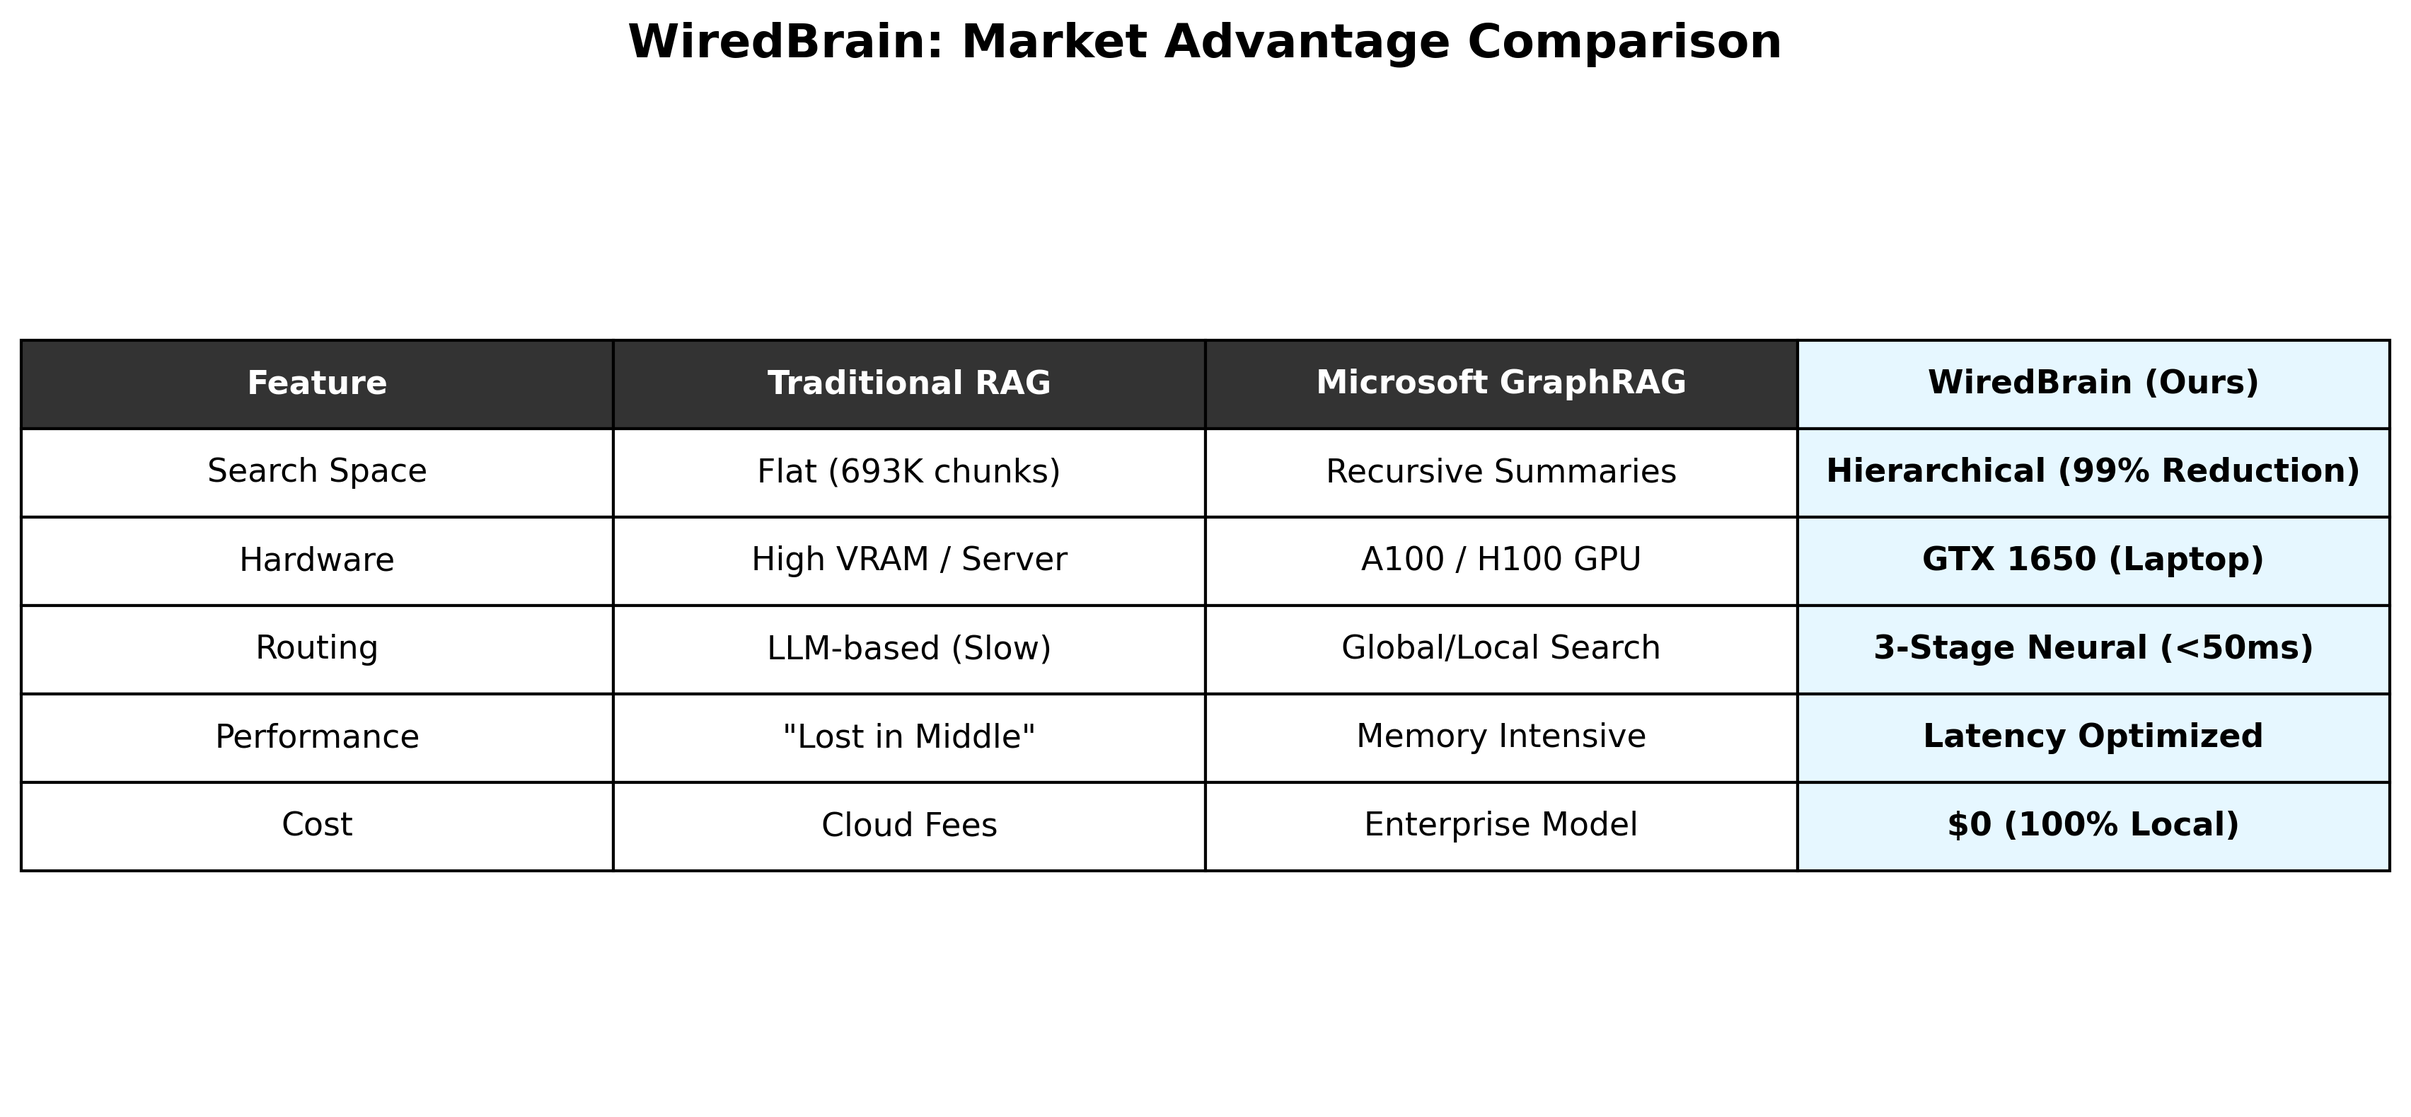
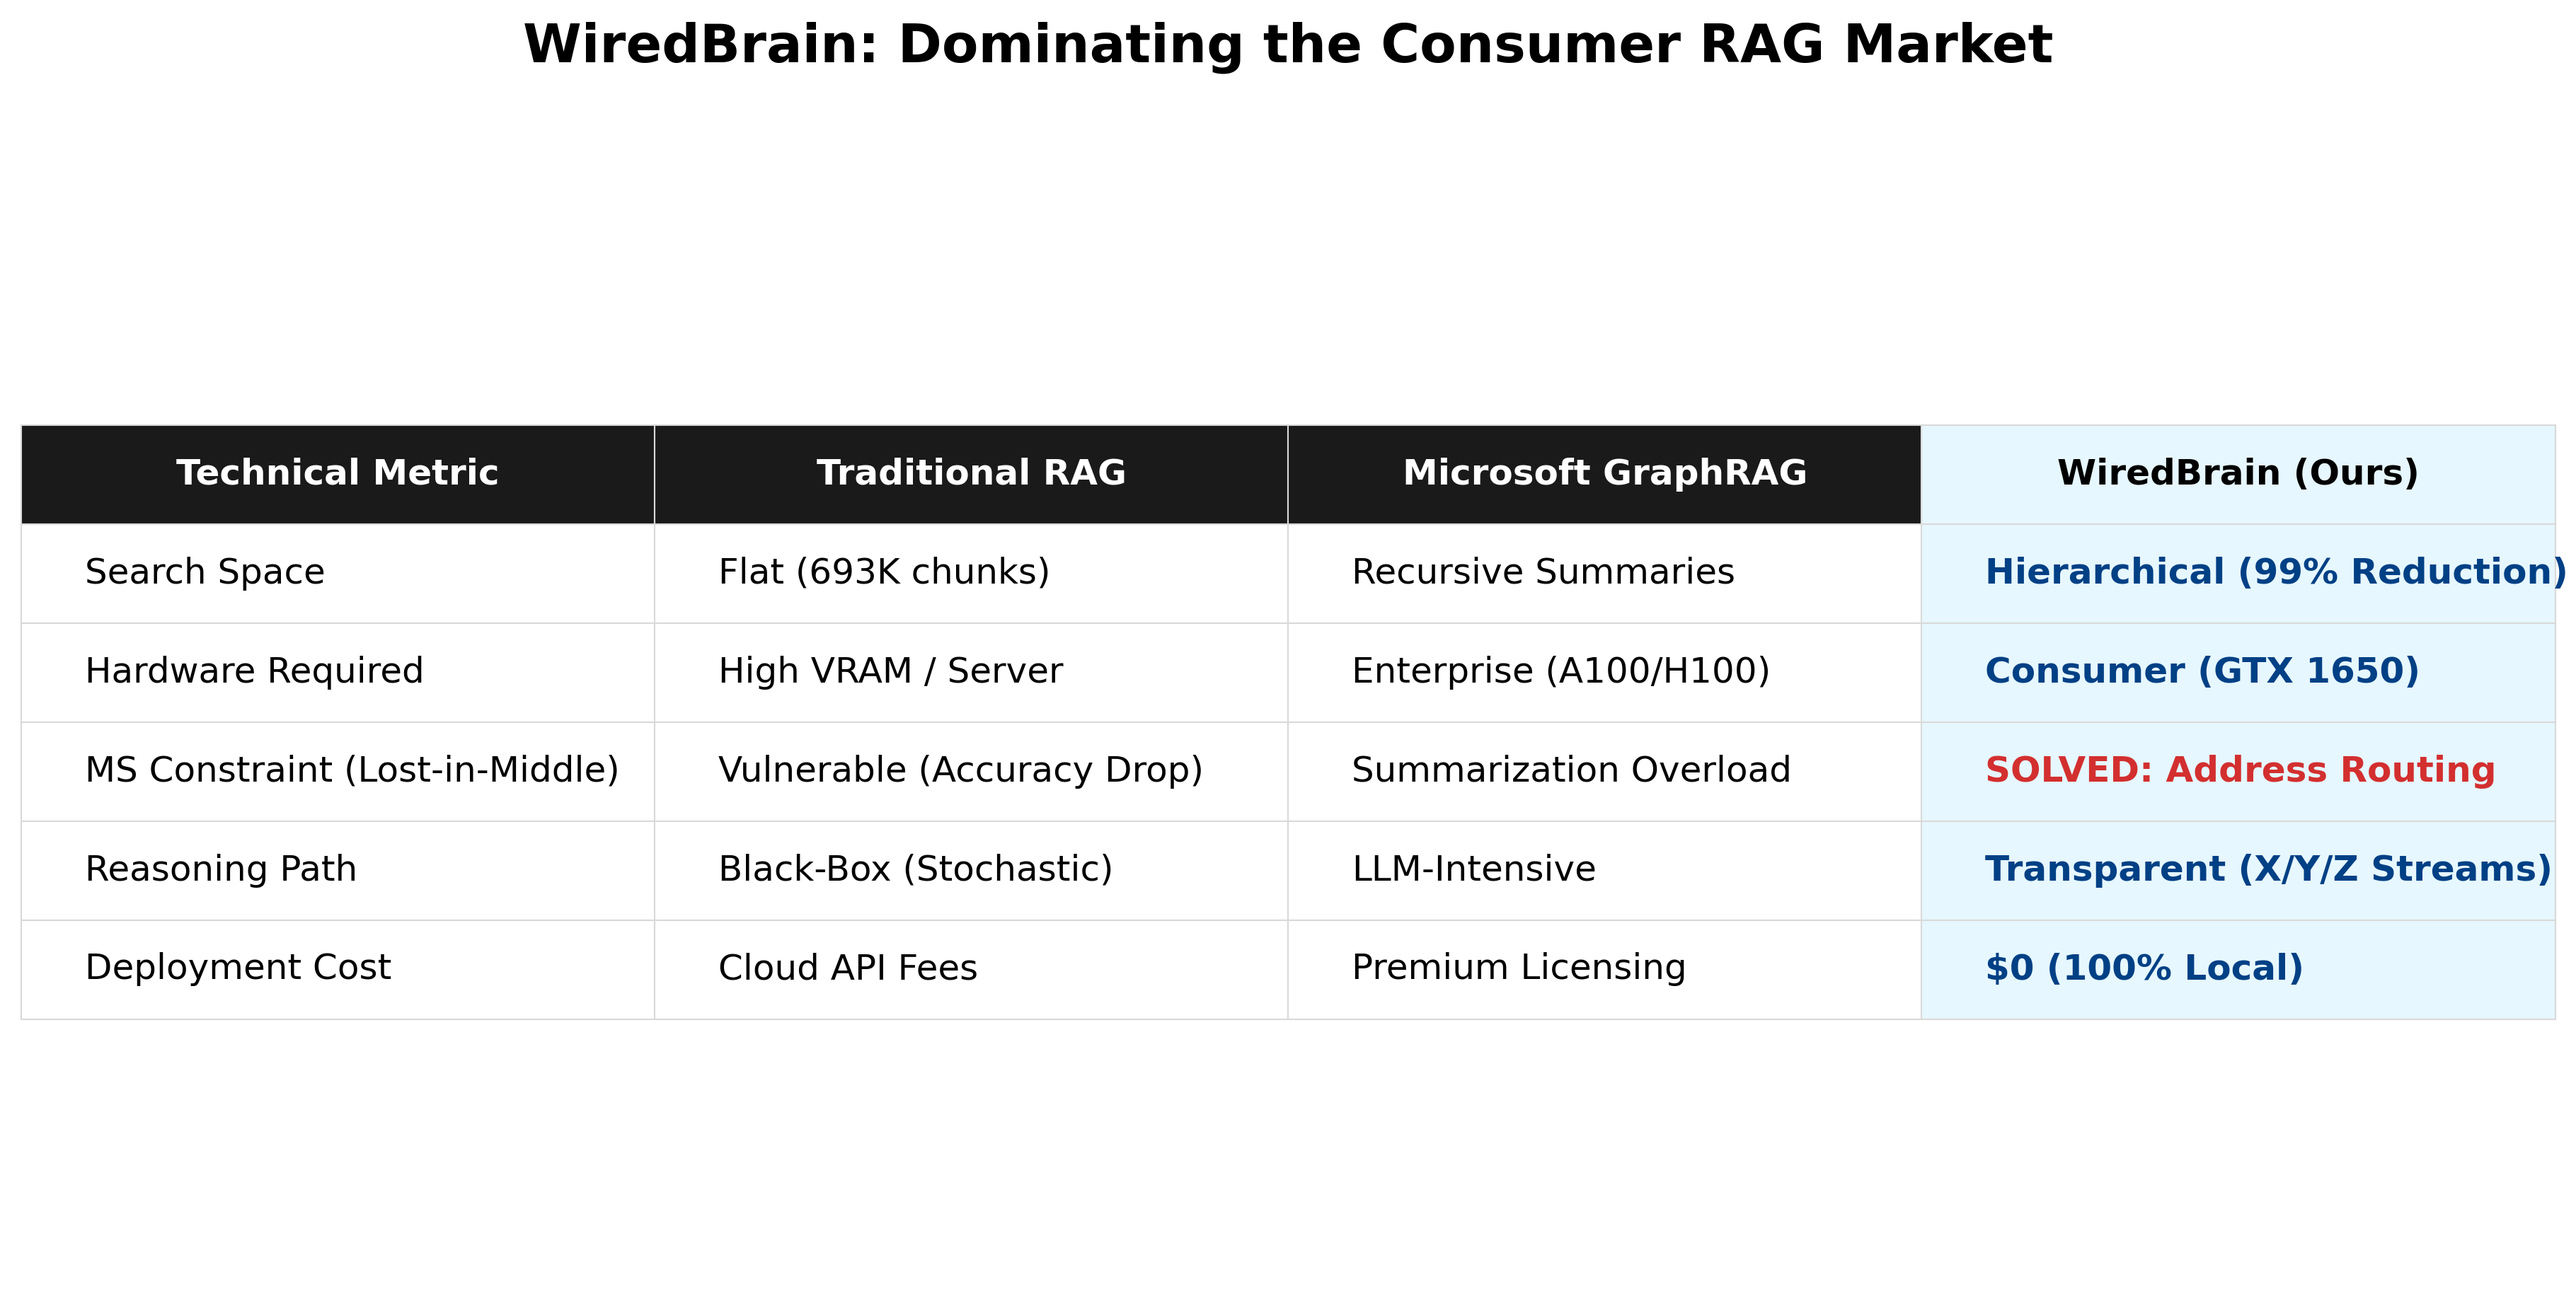
Update Market Advantage table with Microsoft solve and premium styling

Changed region(s): [[0.0, 0.2793, 0.9953, 0.8068], [0.1866, 0.0, 0.8087, 0.0621]]

diff --git a/scripts/generate_comparison_table.py b/scripts/generate_comparison_table.py
@@ -2,46 +2,83 @@
 import matplotlib.pyplot as plt
 import pandas as pd
 
-# Data for comparison
+# Updated Data for comparison with Microsoft Solving points
 data = {
-    "Feature": ["Search Space", "Hardware", "Routing", "Performance", "Cost"],
-    "Traditional RAG": ["Flat (693K chunks)", "High VRAM / Server", "LLM-based (Slow)", "\"Lost in Middle\"", "Cloud Fees"],
-    "Microsoft GraphRAG": ["Recursive Summaries", "A100 / H100 GPU", "Global/Local Search", "Memory Intensive", "Enterprise Model"],
-    "WiredBrain (Ours)": ["Hierarchical (99% Reduction)", "GTX 1650 (Laptop)", "3-Stage Neural (<50ms)", "Latency Optimized", "$0 (100% Local)"]
+    "Technical Metric": [
+        "Search Space", 
+        "Hardware Required", 
+        "MS Constraint (Lost-in-Middle)", 
+        "Reasoning Path", 
+        "Deployment Cost"
+    ],
+    "Traditional RAG": [
+        "Flat (693K chunks)", 
+        "High VRAM / Server", 
+        "Vulnerable (Accuracy Drop)", 
+        "Black-Box (Stochastic)", 
+        "Cloud API Fees"
+    ],
+    "Microsoft GraphRAG": [
+        "Recursive Summaries", 
+        "Enterprise (A100/H100)", 
+        "Summarization Overload", 
+        "LLM-Intensive", 
+        "Premium Licensing"
+    ],
+    "WiredBrain (Ours)": [
+        "Hierarchical (99% Reduction)", 
+        "Consumer (GTX 1650)", 
+        "SOLVED: Address Routing", 
+        "Transparent (X/Y/Z Streams)", 
+        "$0 (100% Local)"
+    ]
 }
 
 df = pd.DataFrame(data)
 
 # Create figure and axis
-fig, ax = plt.subplots(figsize=(12, 6))
+fig, ax = plt.subplots(figsize=(14, 7))
 ax.axis('off')
 
 # Design colors
-colors = [["#f2f2f2"] * 4, ["#ffffff"] * 4, ["#ffffff"] * 4, ["#ffffff"] * 4, ["#e6f7ff"] * 4]
+header_color = "#1a1a1a"
+wiredbrain_color = "#e6f7ff"
+font_family = 'sans-serif'
 
 # Create table
 table = ax.table(cellText=df.values, 
                  colLabels=df.columns, 
-                 cellLoc='center', 
+                 cellLoc='left', 
                  loc='center',
-                 colColours=["#333333"] * 4)
+                 colColours=[header_color] * len(df.columns))
 
 # Styling
 table.auto_set_font_size(False)
-table.set_fontsize(11)
-table.scale(1.2, 2.5)
+table.set_fontsize(12)
+table.scale(1.1, 2.8)
 
-# Bold titles and colors
+# Stylistic refinements
 for (row, col), cell in table.get_celld().items():
+    cell.set_edgecolor('#d9d9d9')
+    cell.set_linewidth(0.5)
+    
+    # Header Styling
     if row == 0:
-        cell.set_text_props(weight='bold', color='white')
-    if col == 3: # WiredBrain column
-        cell.set_facecolor('#e6f7ff') # Soft light blue highlight
-        if row == 0:
-            cell.set_text_props(weight='bold', color='black') # Header text black
-        else:
-            cell.set_text_props(weight='bold')
+        cell.set_text_props(weight='bold', color='white', family=font_family)
+        cell.set_facecolor(header_color)
+        if col == 3: # WiredBrain column header
+            cell.set_facecolor(wiredbrain_color)
+            cell.set_text_props(weight='bold', color='black')
+    
+    # WiredBrain Column Highlight
+    if col == 3 and row > 0:
+        cell.set_facecolor(wiredbrain_color)
+        cell.set_text_props(weight='bold', color='#004085') # Deep blue for emphasis
+        
+    # Microsoft Solve Highlight
+    if row == 3 and col == 3:
+        cell.set_text_props(color='#d32f2f') # Red highlight for "SOLVED"
 
-plt.title("WiredBrain: Market Advantage Comparison", fontsize=16, pad=20, weight='bold')
+plt.title("WiredBrain: Dominating the Consumer RAG Market", fontsize=18, pad=30, weight='bold', family=font_family)
 plt.savefig('/home/user/Desktop/WiredBrain/WiredBrain-RAG/docs/images/market_comparison_clean.png', bbox_inches='tight', dpi=300)
-print("Table image generated successfully.")
+print("Professional Table image with Microsoft Solve points generated successfully.")
